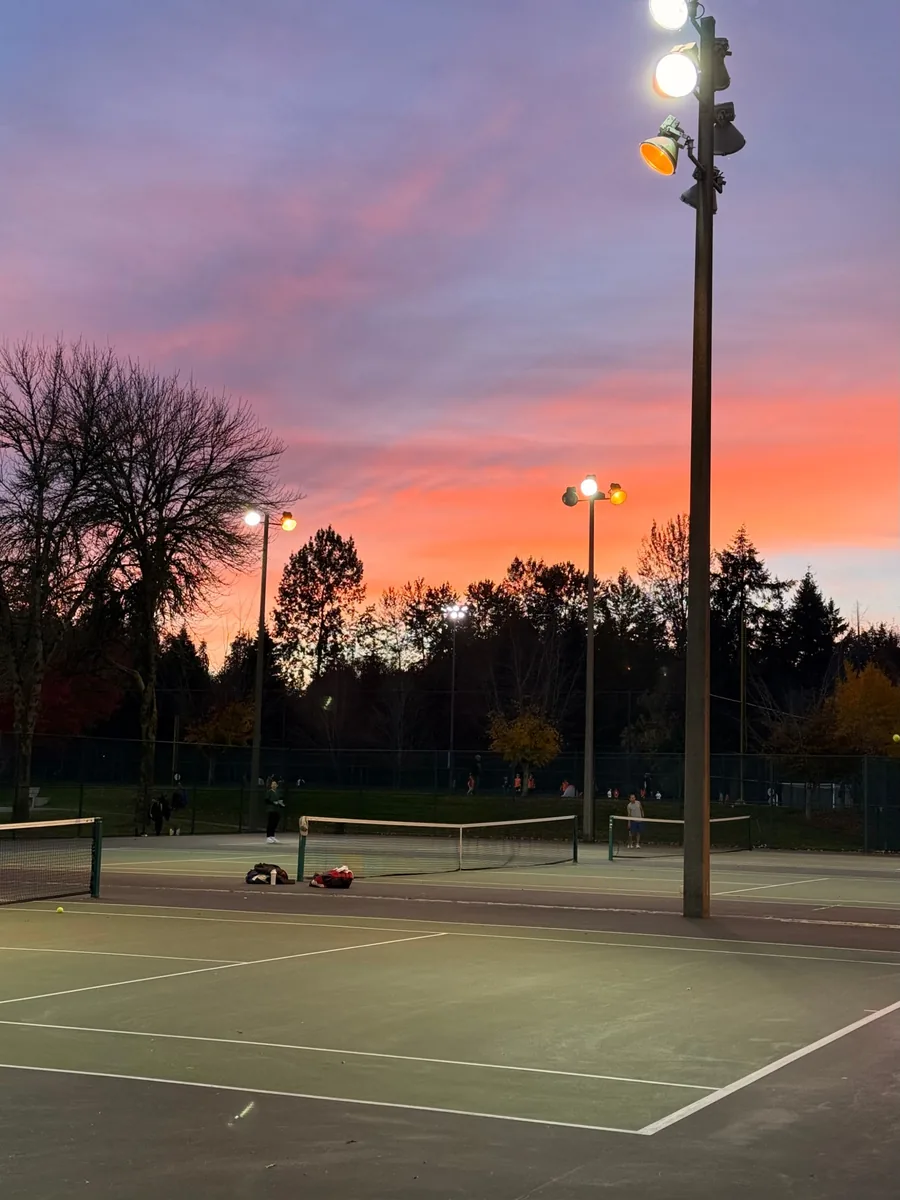
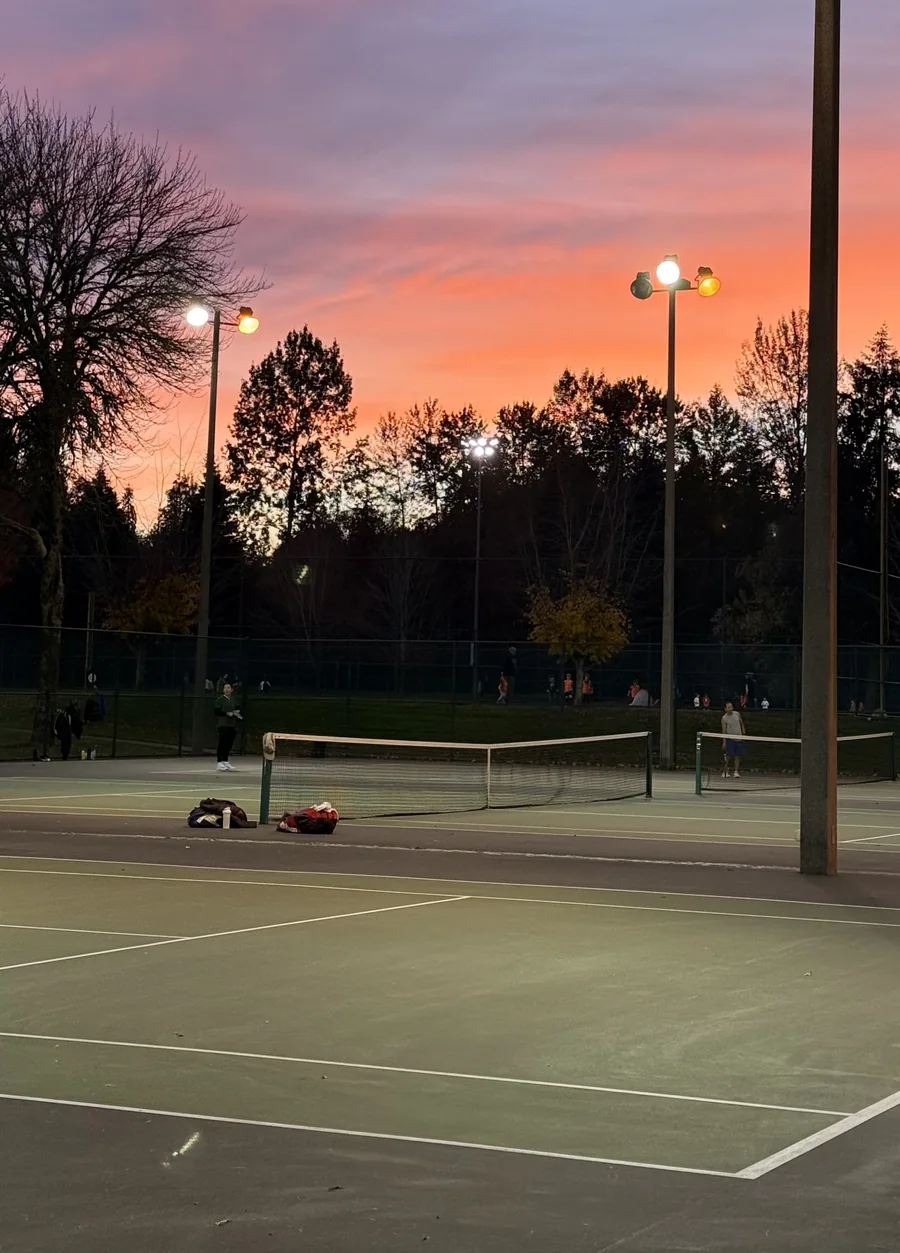
Tennis: the new photograph of the courts at dusk
From Downloads/网球.JPG at 900 across, under the same file name, so the
card picks it up with no other change.

diff --git a/home-v2.html b/home-v2.html
@@ -10,7 +10,7 @@
 <link href="https://fonts.googleapis.com/css2?family=Cormorant+Garamond:wght@400;500;600;700&family=Instrument+Sans:wght@400;500;600;700&display=swap" rel="stylesheet" />
 <link rel="icon" type="image/png" href="/assets/img/personal-logo.png" />
 <link rel="stylesheet" href="/assets/style.css" />
-<link rel="stylesheet" href="/assets/home-v2.css?v=202611180125" />
+<link rel="stylesheet" href="/assets/home-v2.css?v=202611180126" />
 </head>
 <body class="hv2">
 
@@ -54,8 +54,8 @@
 </footer>
 <script>document.getElementById("year").textContent = new Date().getFullYear();</script>
 
-<script src="/assets/home-v2-about.js?v=202611180125"></script>
-<script src="/assets/home-v2.js?v=202611180125" defer></script>
+<script src="/assets/home-v2-about.js?v=202611180126"></script>
+<script src="/assets/home-v2.js?v=202611180126" defer></script>
 <script src="/assets/footer-clock.js?v=2026111804" defer></script>
 </body>
 </html>
